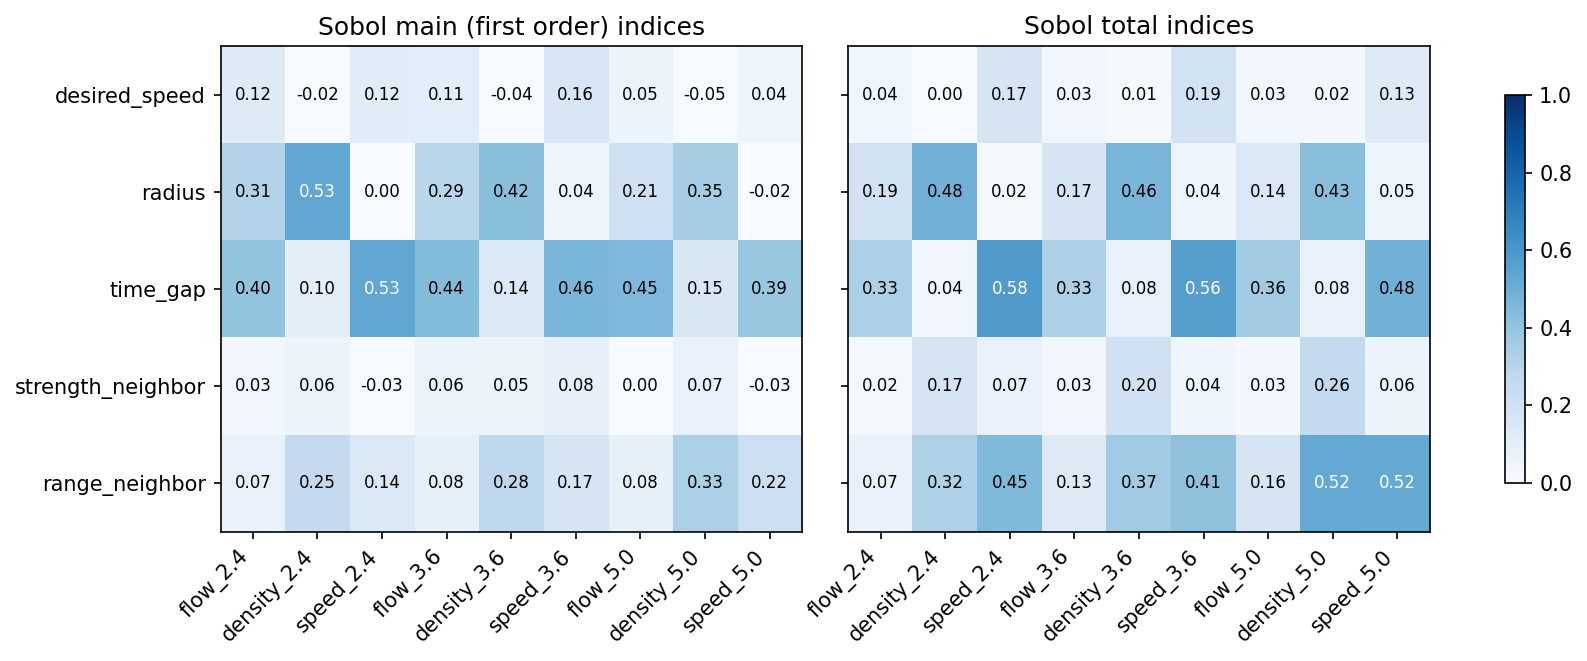
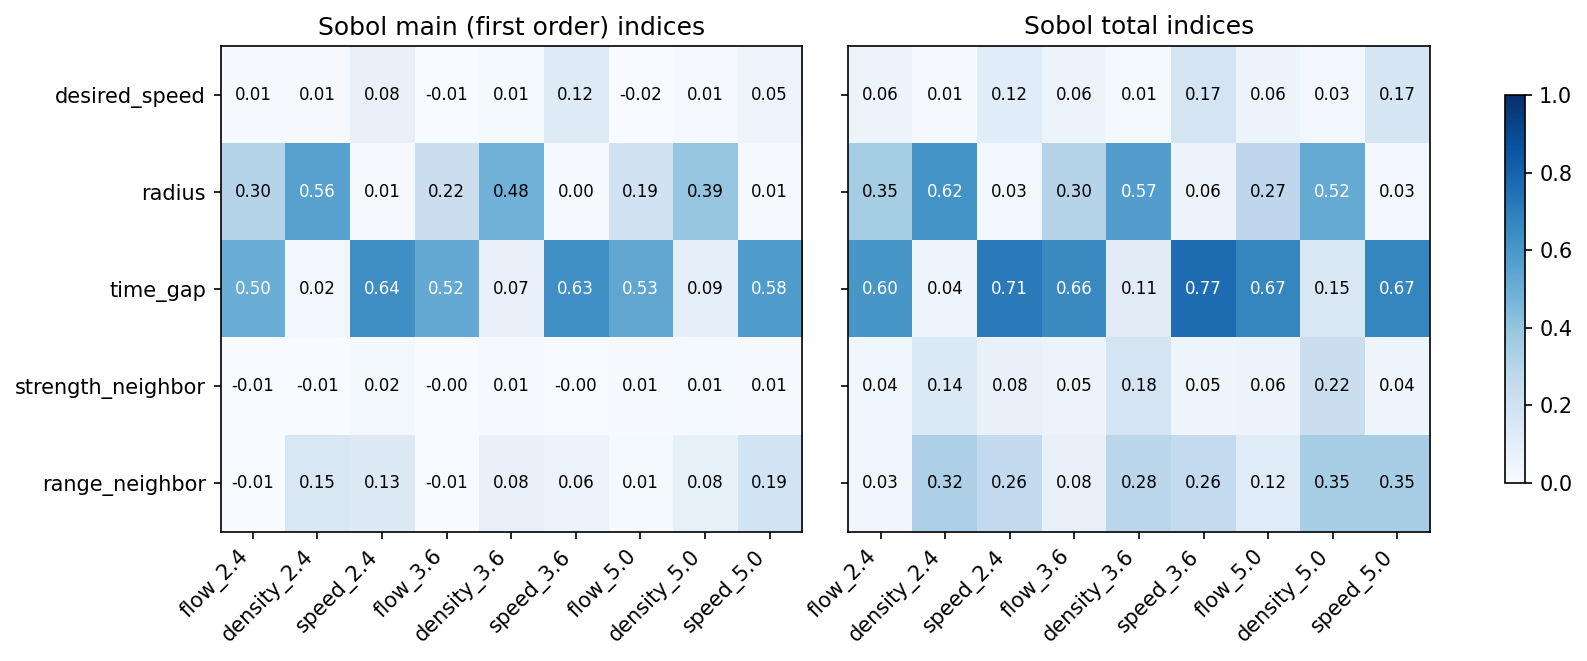
Sensitivity analysis on converged samples; convergence figure

diff --git a/public/notes/dakota-calibration/index.html b/public/notes/dakota-calibration/index.html
@@ -32,7 +32,7 @@
   <meta itemprop="description" content="Validation is the step everyone agrees on and few do. We took an open bottleneck experiment, an open model and an open calibration toolkit, and ran the whole procedure, from screening to held-out validation, in a way anyone can repeat.">
   <meta itemprop="datePublished" content="2026-09-05T00:00:00+00:00">
   <meta itemprop="dateModified" content="2026-09-05T00:00:00+00:00">
-  <meta itemprop="wordCount" content="5466">
+  <meta itemprop="wordCount" content="5666">
   <meta name="twitter:card" content="summary">
   <meta name="twitter:title" content="How do you validate a pedestrian model against real data?">
   <meta name="twitter:description" content="Validation is the step everyone agrees on and few do. We took an open bottleneck experiment, an open model and an open calibration toolkit, and ran the whole procedure, from screening to held-out validation, in a way anyone can repeat.">
@@ -743,7 +743,7 @@
 
 <pre><code>method
   psuade_moat
-    samples = 80
+    samples = 160
     partitions = 3
 
 variables
@@ -776,18 +776,25 @@ responses
 
   
 </div>
-<p>The first stage is a Morris screening: 80 evaluations, each one a short walk through parameter space changing one parameter at a time. It is cheap and it ranks the parameters per observable. It is a ranking, not a measurement: with ten trajectories the estimates are coarse, and any ranking of this kind is conditional on the ranges it was sampled over.</p>
+<p>The first stage is a Morris screening: twenty trajectories of eight evaluations each, every step changing one parameter at a time, 160 evaluations in all. It is cheap and it ranks the parameters per observable. It is a ranking, not a measurement, and any ranking of this kind is conditional on the ranges it was sampled over. We ran it first with ten trajectories and then with twenty; the ranking did not change, so the figure shows the larger run.</p>
 <figure><img src="/notes/dakota-calibration/fig3.png"
-    alt="Morris screening over the full parameter ranges. Each cell is the mean absolute elementary effect of a parameter on an observable, scaled to the strongest parameter in that column. An elementary effect is one step of one parameter along a Morris trajectory; steps where either end of the pair failed were discarded, so the count n per row is the number of valid steps that survived, between four and seven of the ten drawn. The time gap, the radius and the neighbor repulsion range dominate; the desired speed has a moderate effect on flow and speed; the two wall parameters are weakest."><figcaption>
-      <p>Morris screening over the full parameter ranges. Each cell is the mean absolute elementary effect of a parameter on an observable, scaled to the strongest parameter in that column. An elementary effect is one step of one parameter along a Morris trajectory; steps where either end of the pair failed were discarded, so the count n per row is the number of valid steps that survived, between four and seven of the ten drawn. The time gap, the radius and the neighbor repulsion range dominate; the desired speed has a moderate effect on flow and speed; the two wall parameters are weakest.</p>
+    alt="Morris screening over the full parameter ranges, twenty trajectories. Each cell is the mean absolute elementary effect of a parameter on an observable, scaled to the strongest parameter in that column. An elementary effect is one step of one parameter along a trajectory; steps where either end failed were discarded, and n per row is the number of valid steps that survived out of the twenty drawn. The time gap, the radius and the neighbor repulsion range dominate; the desired speed has a moderate effect on flow and speed over this wide range; the two wall parameters are weakest."><figcaption>
+      <p>Morris screening over the full parameter ranges, twenty trajectories. Each cell is the mean absolute elementary effect of a parameter on an observable, scaled to the strongest parameter in that column. An elementary effect is one step of one parameter along a trajectory; steps where either end failed were discarded, and n per row is the number of valid steps that survived out of the twenty drawn. The time gap, the radius and the neighbor repulsion range dominate; the desired speed has a moderate effect on flow and speed over this wide range; the two wall parameters are weakest.</p>
     </figcaption>
 </figure>
 
-<p>The screening also revealed something no fit would have: in 28 of the 80 evaluations the model pushed agents through the walls and JuPedSim aborted the run. Those combinations have strong, long-range neighbor repulsion and weak wall repulsion. We narrowed the bounds accordingly and froze the wall parameters at their defaults. Knowing where a model breaks is part of validating it.</p>
-<p>With five parameters left, and narrower ranges, a Sobol analysis with 280 evaluations gives the variance decomposition. Dakota computes the indices itself; the only change to the input file is one keyword, <code>variance_based_decomp</code>. Because the ranges and the fixed parameters changed between the two stages, the two rankings are not expected to coincide exactly; sensitivity is always relative to the ranges assumed.</p>
+<p>The screening also revealed something no fit would have: in 43 of the 160 evaluations, about a quarter, the model pushed agents through the walls and JuPedSim aborted the run. Those combinations have strong, long-range neighbor repulsion and weak wall repulsion. We narrowed the bounds accordingly and froze the wall parameters at their defaults. Knowing where a model breaks is part of validating it.</p>
+<p>With five parameters left, and narrower ranges, a Sobol analysis gives the variance decomposition. Dakota computes the indices itself; the only change to the input file is one keyword, <code>variance_based_decomp</code>, and the cost is the base sample size times the number of parameters plus two. Because the ranges and the fixed parameters changed between the two stages, the two rankings are not expected to coincide exactly; sensitivity is always relative to the ranges assumed.</p>
+<p>How many samples are enough is an empirical question, so we answered it empirically: three replicate runs with 40 base samples and different seeds, then 80 and 160 base samples, 2240 evaluations in all. At 40 samples the replicates disagree by up to 0.25 in the total index and twenty of the 45 first-order indices exceed their totals, which exact indices cannot do. At 160 samples no first-order index exceeds its total, and the time gap&rsquo;s share of flow and speed has risen from about 0.4 to about 0.7 while the others settled. The ranking of the leading parameters was the same in every run; the magnitudes needed the largest one.</p>
 <figure><img src="/notes/dakota-calibration/fig4.png"
-    alt="Sobol indices for the five remaining parameters, 280 evaluations, none failed. The time gap has the largest first-order contribution to flow and, together with the neighbor repulsion range, to speed; the radius and the neighbor repulsion range dominate the density. The desired speed contributes a total index of 0.13 to 0.19 to the speed, small but not negligible. With 40 base samples the estimator is coarse: several first-order indices exceed their totals by 0.1, which is impossible for exact indices, so these are preliminary estimates. The broad ranking is what we use, not the decimals."><figcaption>
-      <p>Sobol indices for the five remaining parameters, 280 evaluations, none failed. The time gap has the largest first-order contribution to flow and, together with the neighbor repulsion range, to speed; the radius and the neighbor repulsion range dominate the density. The desired speed contributes a total index of 0.13 to 0.19 to the speed, small but not negligible. With 40 base samples the estimator is coarse: several first-order indices exceed their totals by 0.1, which is impossible for exact indices, so these are preliminary estimates. The broad ranking is what we use, not the decimals.</p>
+    alt="Sobol indices for the five remaining parameters from the run with 160 base samples, 1120 evaluations, none failed. The time gap dominates flow and speed with total indices of 0.6 to 0.8; the radius dominates density with 0.5 to 0.6, followed by the neighbor repulsion range with about 0.3; the neighbor range also contributes 0.25 to 0.35 to speed; the desired speed contributes 0.06 to flow and 0.12 to 0.17 to speed. In this run no first-order index exceeds its total."><figcaption>
+      <p>Sobol indices for the five remaining parameters from the run with 160 base samples, 1120 evaluations, none failed. The time gap dominates flow and speed with total indices of 0.6 to 0.8; the radius dominates density with 0.5 to 0.6, followed by the neighbor repulsion range with about 0.3; the neighbor range also contributes 0.25 to 0.35 to speed; the desired speed contributes 0.06 to flow and 0.12 to 0.17 to speed. In this run no first-order index exceeds its total.</p>
+    </figcaption>
+</figure>
+
+<figure><img src="/notes/dakota-calibration/fig9.png"
+    alt="Convergence of the Sobol total indices with the base sample size. Bars at 40 span three replicate runs with different seeds. The ranking is stable across all runs; the magnitude of the time gap&rsquo;s index is not settled below 160 base samples."><figcaption>
+      <p>Convergence of the Sobol total indices with the base sample size. Bars at 40 span three replicate runs with different seeds. The ranking is stable across all runs; the magnitude of the time gap&rsquo;s index is not settled below 160 base samples.</p>
     </figcaption>
 </figure>
 
@@ -1067,14 +1074,14 @@ responses
 <li><strong>Some behaviour is not a parameter.</strong> Motivation changed the measured flow through the same gate by a factor of two. No value of the time gap reproduces that without breaking density and speed. A model that treats a pushing crowd as a faster orderly one will be wrong in exactly the situations that matter for safety.</li>
 <li><strong>Measured quantities beat fitted ones.</strong> Fixing the free speed at its measured value cost a little fit quality and bought a parameter set that means what it says. The fit had been buying its accuracy with an unphysical value.</li>
 <li><strong>Run the optimizer twice.</strong> One calibration gives one point in a valley. A second run from another seed, twenty minutes here, showed that the valley has two ends with different physics and the same misfit. Any parameter set reported without that check is a sample, not a result.</li>
-<li><strong>Failure modes are results.</strong> A third of the screening runs pushed agents through walls. That region of parameter space is where the model breaks, and it is worth knowing before an engineer lands in it by hand.</li>
+<li><strong>Failure modes are results.</strong> A quarter of the screening runs pushed agents through walls. That region of parameter space is where the model breaks, and it is worth knowing before an engineer lands in it by hand.</li>
 <li><strong>The tooling is the cheap part.</strong> Every calibration and every test here is a text file and a driver script. What is expensive is the honesty of running the test that might fail. Open data makes that test available to everyone, which is the strongest argument for it.</li>
 </ul>
 <h2>What we learned about validating<span class="hx-absolute -hx-mt-20" id="what-we-learned-about-validating"></span>
     <a href="#what-we-learned-about-validating" class="subheading-anchor" aria-label="Permalink for this section"></a></h2><ul>
 <li><strong>State the purpose, then pick the observables.</strong> Flow alone would have passed a model with the wrong density, as it did in 2014. Three observables, one per mechanism, is the minimum.</li>
 <li><strong>Analyse experiment and simulation with the same code.</strong> The measurement method is part of the result. PedPy loads both, so the observables are defined once.</li>
-<li><strong>Screen before you calibrate.</strong> The Morris run costs 80 evaluations, removed two of seven parameters, and mapped a whole region where the model fails outright.</li>
+<li><strong>Screen before you calibrate, and check the screening.</strong> The Morris run costs 160 evaluations, removed two of seven parameters, and mapped a whole region where the model fails outright. The Sobol indices needed four times the samples we first gave them before their magnitudes settled; the ranking was right from the start, the numbers were not.</li>
 <li><strong>Do not use gradients on an agent-based model.</strong> Surrogate-based optimization converged in a few dozen evaluations where the gradient solver never left the start.</li>
 <li><strong>Hold something back, then change the experiment.</strong> Calibrating on three widths and validating on two is the difference between a fit and a validated model. A second experiment in a different regime is what finds the domain boundary, and here it found it within an afternoon.</li>
 <li><strong>Dakota&rsquo;s job is orchestration, not physics.</strong> It knows nothing about pedestrians. It knows how to run a driver in parallel a few hundred times and what to make of the numbers that come back. That is the part you do not want to write yourself, and the part that makes the procedure repeatable.</li>

diff --git a/content/notes/dakota-calibration/index.md b/content/notes/dakota-calibration/index.md
@@ -61,7 +61,7 @@ Dakota needs two things: an input file describing the study, and a driver script
 ```
 method
   psuade_moat
-    samples = 80
+    samples = 160
     partitions = 3
 
 variables
@@ -85,20 +85,27 @@ responses
   no_hessians
 ```
 
-The first stage is a Morris screening: 80 evaluations, each one a short walk through parameter space changing one parameter at a time. It is cheap and it ranks the parameters per observable. It is a ranking, not a measurement: with ten trajectories the estimates are coarse, and any ranking of this kind is conditional on the ranges it was sampled over.
+The first stage is a Morris screening: twenty trajectories of eight evaluations each, every step changing one parameter at a time, 160 evaluations in all. It is cheap and it ranks the parameters per observable. It is a ranking, not a measurement, and any ranking of this kind is conditional on the ranges it was sampled over. We ran it first with ten trajectories and then with twenty; the ranking did not change, so the figure shows the larger run.
 
 {{< figure
     src="fig3.png"
-    caption="Morris screening over the full parameter ranges. Each cell is the mean absolute elementary effect of a parameter on an observable, scaled to the strongest parameter in that column. An elementary effect is one step of one parameter along a Morris trajectory; steps where either end of the pair failed were discarded, so the count n per row is the number of valid steps that survived, between four and seven of the ten drawn. The time gap, the radius and the neighbor repulsion range dominate; the desired speed has a moderate effect on flow and speed; the two wall parameters are weakest."
+    caption="Morris screening over the full parameter ranges, twenty trajectories. Each cell is the mean absolute elementary effect of a parameter on an observable, scaled to the strongest parameter in that column. An elementary effect is one step of one parameter along a trajectory; steps where either end failed were discarded, and n per row is the number of valid steps that survived out of the twenty drawn. The time gap, the radius and the neighbor repulsion range dominate; the desired speed has a moderate effect on flow and speed over this wide range; the two wall parameters are weakest."
 >}}
 
-The screening also revealed something no fit would have: in 28 of the 80 evaluations the model pushed agents through the walls and JuPedSim aborted the run. Those combinations have strong, long-range neighbor repulsion and weak wall repulsion. We narrowed the bounds accordingly and froze the wall parameters at their defaults. Knowing where a model breaks is part of validating it.
+The screening also revealed something no fit would have: in 43 of the 160 evaluations, about a quarter, the model pushed agents through the walls and JuPedSim aborted the run. Those combinations have strong, long-range neighbor repulsion and weak wall repulsion. We narrowed the bounds accordingly and froze the wall parameters at their defaults. Knowing where a model breaks is part of validating it.
 
-With five parameters left, and narrower ranges, a Sobol analysis with 280 evaluations gives the variance decomposition. Dakota computes the indices itself; the only change to the input file is one keyword, `variance_based_decomp`. Because the ranges and the fixed parameters changed between the two stages, the two rankings are not expected to coincide exactly; sensitivity is always relative to the ranges assumed.
+With five parameters left, and narrower ranges, a Sobol analysis gives the variance decomposition. Dakota computes the indices itself; the only change to the input file is one keyword, `variance_based_decomp`, and the cost is the base sample size times the number of parameters plus two. Because the ranges and the fixed parameters changed between the two stages, the two rankings are not expected to coincide exactly; sensitivity is always relative to the ranges assumed.
+
+How many samples are enough is an empirical question, so we answered it empirically: three replicate runs with 40 base samples and different seeds, then 80 and 160 base samples, 2240 evaluations in all. At 40 samples the replicates disagree by up to 0.25 in the total index and twenty of the 45 first-order indices exceed their totals, which exact indices cannot do. At 160 samples no first-order index exceeds its total, and the time gap's share of flow and speed has risen from about 0.4 to about 0.7 while the others settled. The ranking of the leading parameters was the same in every run; the magnitudes needed the largest one.
 
 {{< figure
     src="fig4.png"
-    caption="Sobol indices for the five remaining parameters, 280 evaluations, none failed. The time gap has the largest first-order contribution to flow and, together with the neighbor repulsion range, to speed; the radius and the neighbor repulsion range dominate the density. The desired speed contributes a total index of 0.13 to 0.19 to the speed, small but not negligible. With 40 base samples the estimator is coarse: several first-order indices exceed their totals by 0.1, which is impossible for exact indices, so these are preliminary estimates. The broad ranking is what we use, not the decimals."
+    caption="Sobol indices for the five remaining parameters from the run with 160 base samples, 1120 evaluations, none failed. The time gap dominates flow and speed with total indices of 0.6 to 0.8; the radius dominates density with 0.5 to 0.6, followed by the neighbor repulsion range with about 0.3; the neighbor range also contributes 0.25 to 0.35 to speed; the desired speed contributes 0.06 to flow and 0.12 to 0.17 to speed. In this run no first-order index exceeds its total."
+>}}
+
+{{< figure
+    src="fig9.png"
+    caption="Convergence of the Sobol total indices with the base sample size. Bars at 40 span three replicate runs with different seeds. The ranking is stable across all runs; the magnitude of the time gap's index is not settled below 160 base samples."
 >}}
 
 ## Step 4 — calibration, and why we did not use gradients
@@ -230,14 +237,14 @@ None of this is a verdict on the Collision Free Speed model in particular. It is
 - **Some behaviour is not a parameter.** Motivation changed the measured flow through the same gate by a factor of two. No value of the time gap reproduces that without breaking density and speed. A model that treats a pushing crowd as a faster orderly one will be wrong in exactly the situations that matter for safety.
 - **Measured quantities beat fitted ones.** Fixing the free speed at its measured value cost a little fit quality and bought a parameter set that means what it says. The fit had been buying its accuracy with an unphysical value.
 - **Run the optimizer twice.** One calibration gives one point in a valley. A second run from another seed, twenty minutes here, showed that the valley has two ends with different physics and the same misfit. Any parameter set reported without that check is a sample, not a result.
-- **Failure modes are results.** A third of the screening runs pushed agents through walls. That region of parameter space is where the model breaks, and it is worth knowing before an engineer lands in it by hand.
+- **Failure modes are results.** A quarter of the screening runs pushed agents through walls. That region of parameter space is where the model breaks, and it is worth knowing before an engineer lands in it by hand.
 - **The tooling is the cheap part.** Every calibration and every test here is a text file and a driver script. What is expensive is the honesty of running the test that might fail. Open data makes that test available to everyone, which is the strongest argument for it.
 
 ## What we learned about validating
 
 - **State the purpose, then pick the observables.** Flow alone would have passed a model with the wrong density, as it did in 2014. Three observables, one per mechanism, is the minimum.
 - **Analyse experiment and simulation with the same code.** The measurement method is part of the result. PedPy loads both, so the observables are defined once.
-- **Screen before you calibrate.** The Morris run costs 80 evaluations, removed two of seven parameters, and mapped a whole region where the model fails outright.
+- **Screen before you calibrate, and check the screening.** The Morris run costs 160 evaluations, removed two of seven parameters, and mapped a whole region where the model fails outright. The Sobol indices needed four times the samples we first gave them before their magnitudes settled; the ranking was right from the start, the numbers were not.
 - **Do not use gradients on an agent-based model.** Surrogate-based optimization converged in a few dozen evaluations where the gradient solver never left the start.
 - **Hold something back, then change the experiment.** Calibrating on three widths and validating on two is the difference between a fit and a validated model. A second experiment in a different regime is what finds the domain boundary, and here it found it within an afternoon.
 - **Dakota's job is orchestration, not physics.** It knows nothing about pedestrians. It knows how to run a driver in parallel a few hundred times and what to make of the numbers that come back. That is the part you do not want to write yourself, and the part that makes the procedure repeatable.
